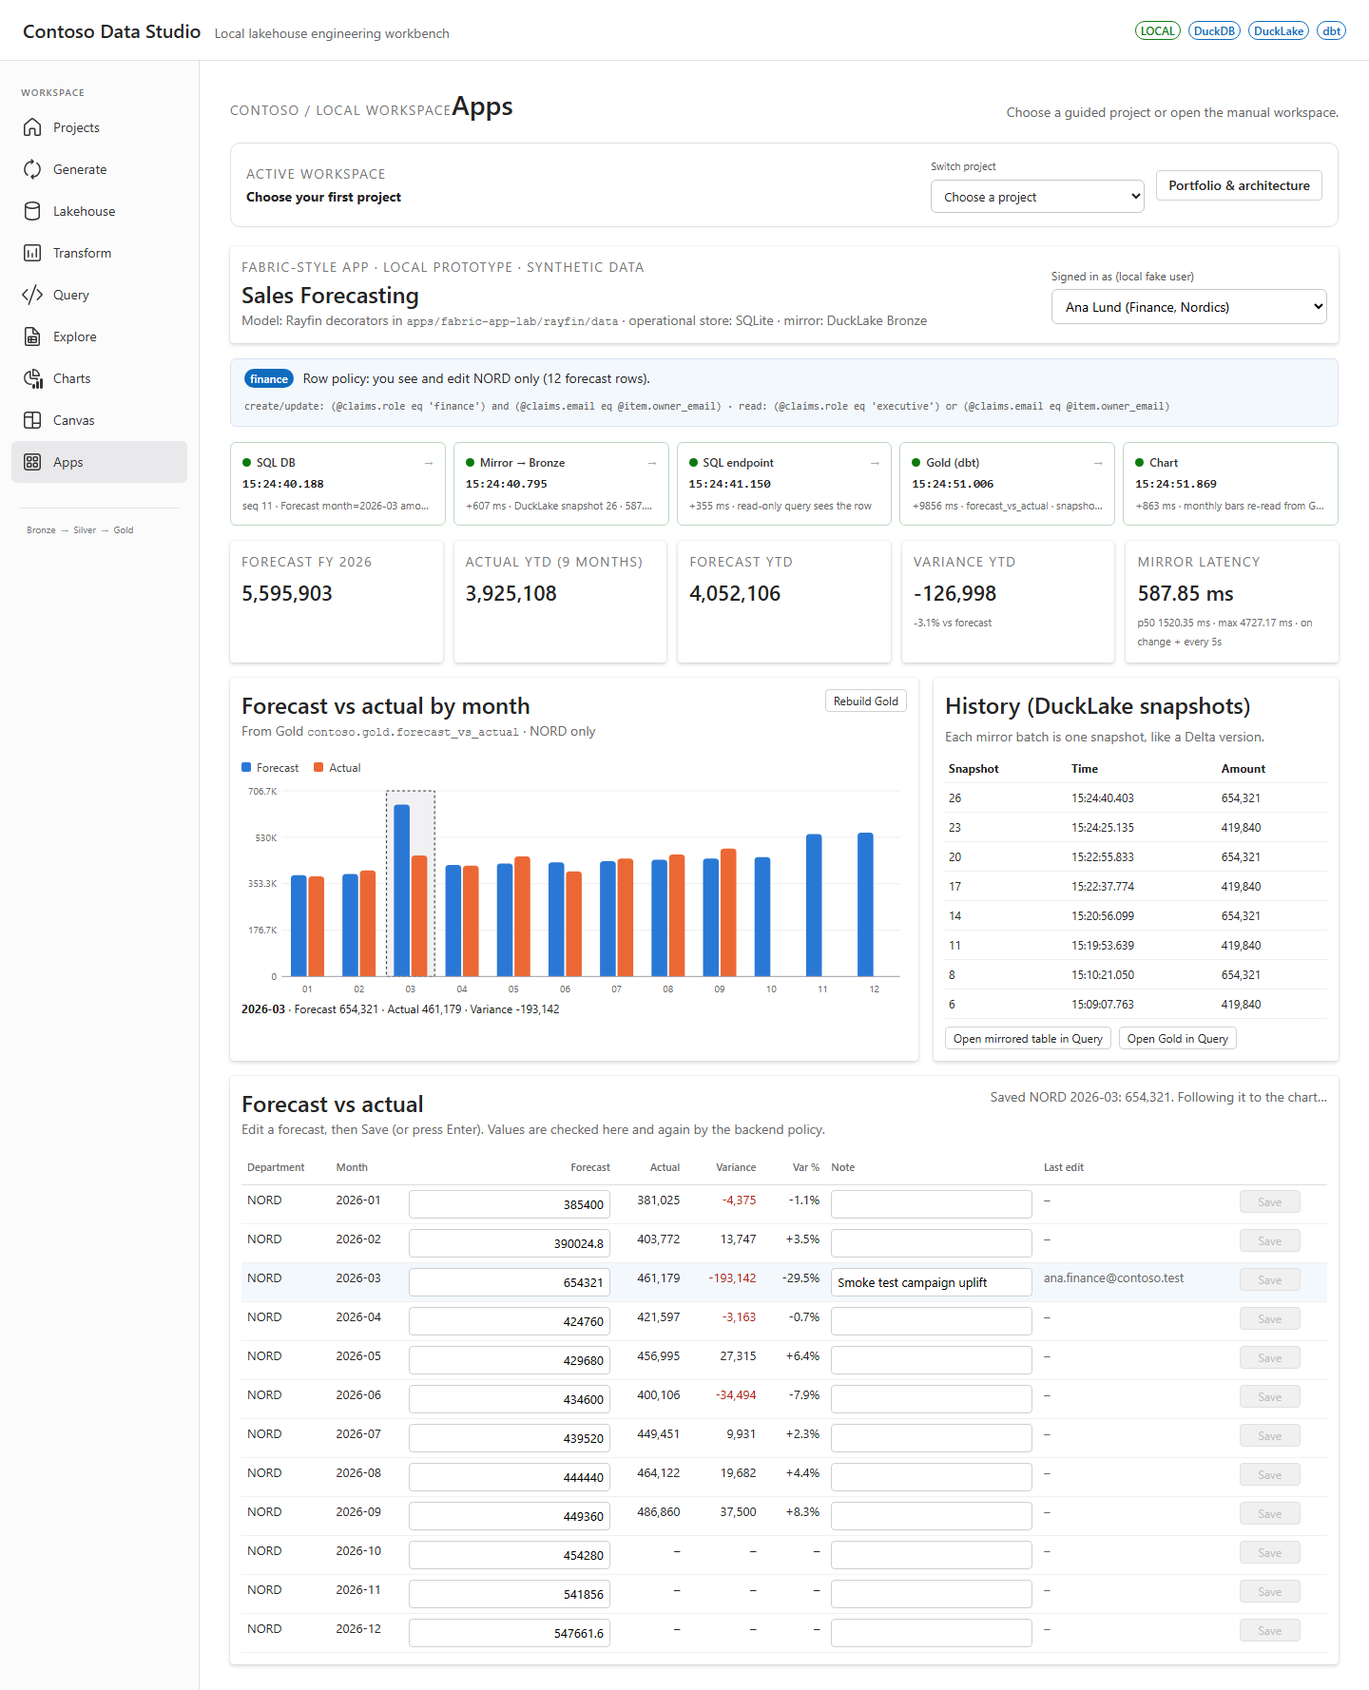
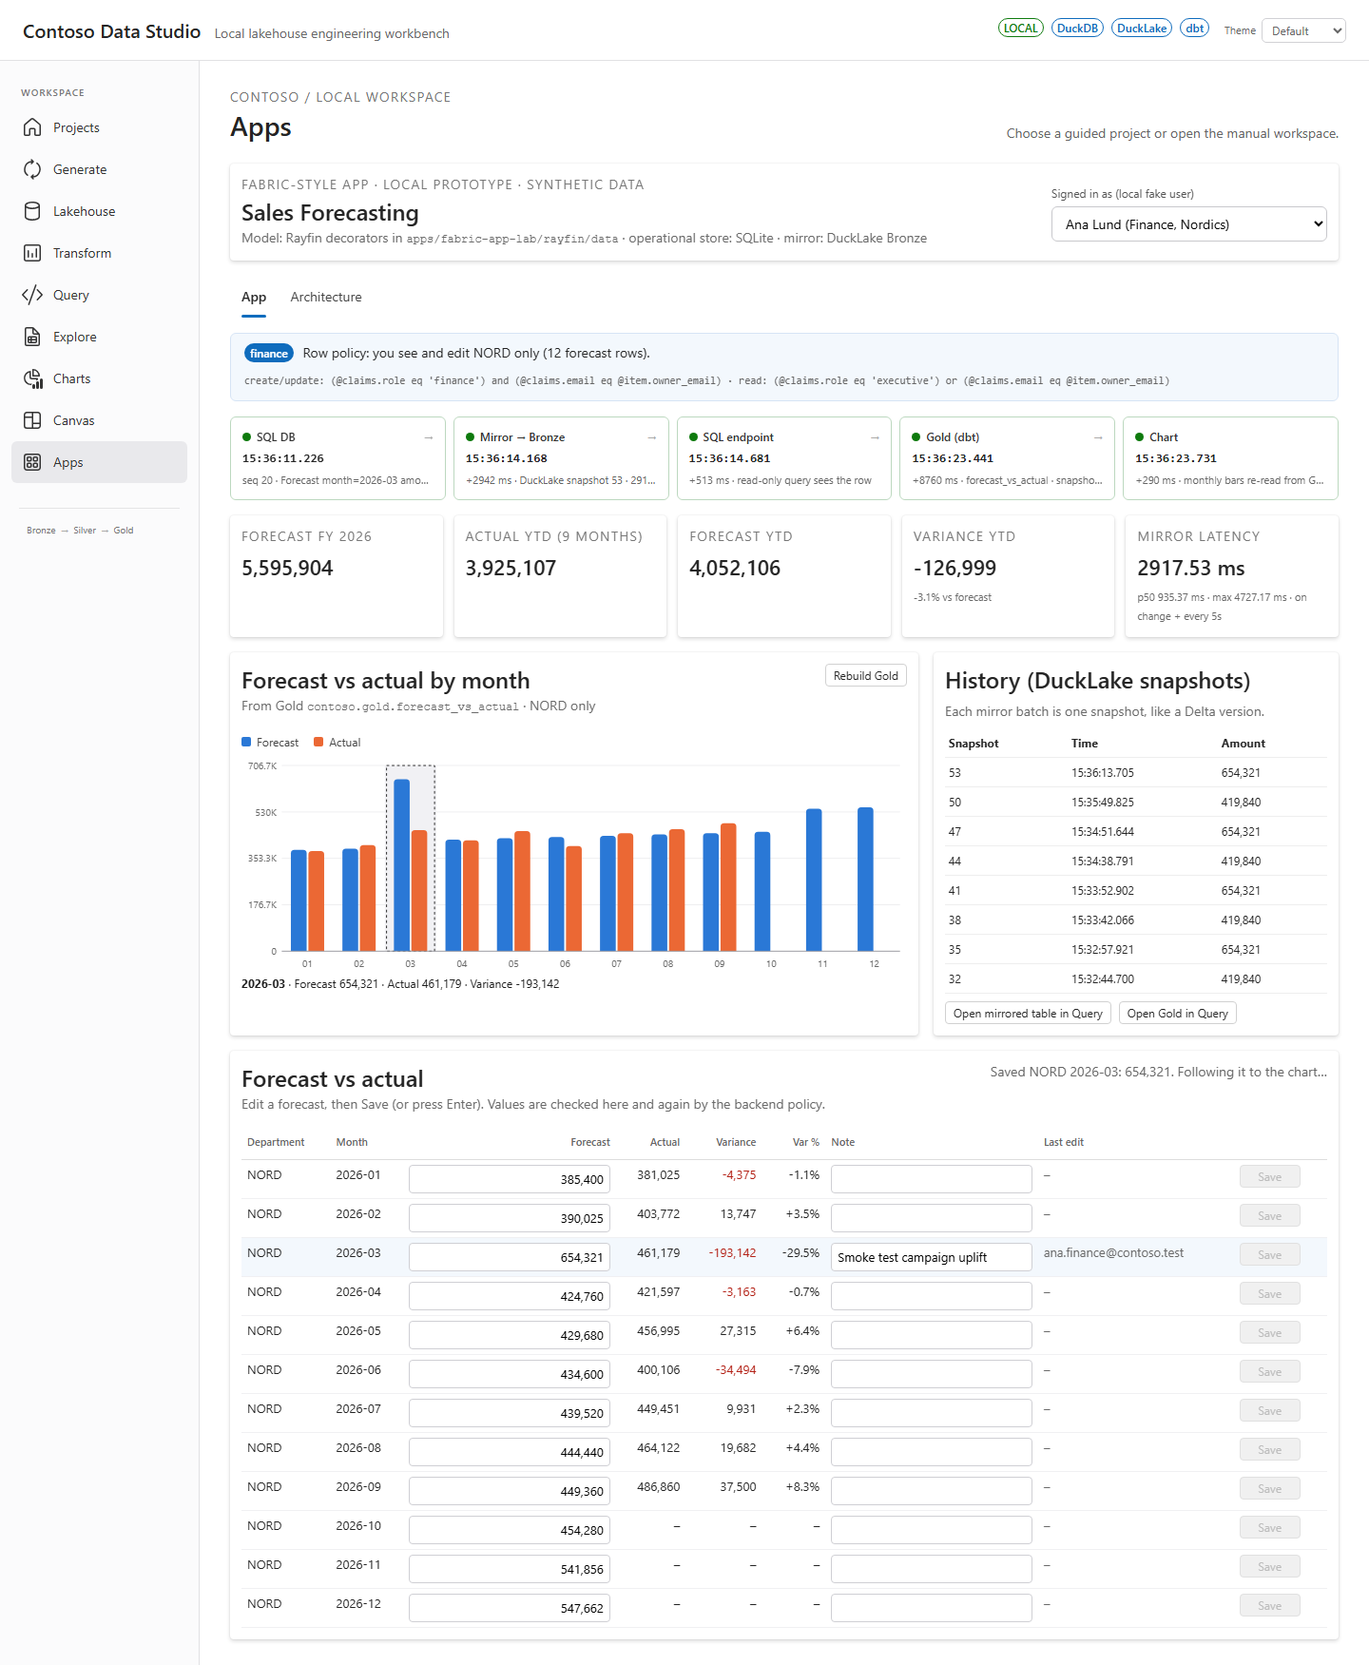
polish: Apps header, formatted forecasts, Architecture tab
- Fix breadcrumb glued to page title; hide the workspace bar on Apps
- Forecast inputs show integers with separators, raw value while editing; round seeded values
- Architecture tab: layer diagram generated from the Rayfin model and data path, auth on the side
- Smoke covers the new behaviour; captures updated (3)

diff --git a/apps/web/src/pages/AppsPage.tsx b/apps/web/src/pages/AppsPage.tsx
@@ -1,5 +1,8 @@
 import { useCallback, useEffect, useMemo, useRef, useState } from "react";
-import { Badge, Button, Card, Spinner, Text, Title3 } from "@fluentui/react-components";
+import { Badge, Button, Card, Spinner, Tab, TabList, Text, Title3 } from "@fluentui/react-components";
+
+import ArchitectureDiagram from "../fabricApps/ArchitectureDiagram";
+import { buildArchitecture, type ModelInfo } from "../fabricApps/architecture";
 
 import MonthlyBarChart from "../fabricApps/MonthlyBarChart";
 import {
@@ -21,7 +24,6 @@ import "../fabricApps/fabricApps.css";
 const USER_KEY = "contoso-fabric-app-user";
 
 type Draft = { amount: string; note: string; error?: string; saving?: boolean };
-type ModelInfo = { entities: Array<{ name: string; roles: Array<{ role: string; actions: string[]; policy: string | null }> }> };
 type Version = { snapshot_id: number; snapshot_time: string; amount: number | null; updated_by: string | null; commit_message: string | null };
 
 // Lab endpoints (mirror status, trace, Gold read) are local only; in Fabric these are platform views.
@@ -37,6 +39,12 @@ async function labPost<T>(path: string): Promise<T> {
   const body = await response.json();
   if (!response.ok) throw new Error(body.detail ?? `Request failed: ${response.status}`);
   return body as T;
+}
+
+/** Integers with thousands separators on display; the raw value is kept while editing. */
+function displayAmount(raw: string) {
+  const parsed = validateAmount(raw);
+  return parsed.ok ? formatMoney(parsed.value) : raw;
 }
 
 function storedUser() {
@@ -63,6 +71,8 @@ export default function AppsPage({ onOpenQuery }: { onOpenQuery: (sql: string) =
   const [message, setMessage] = useState("");
   const [loading, setLoading] = useState(true);
   const [rebuilding, setRebuilding] = useState(false);
+  const [view, setView] = useState<"app" | "architecture">("app");
+  const [focused, setFocused] = useState<string | null>(null);
   const traceTimer = useRef<number | null>(null);
 
   useEffect(() => {
@@ -154,6 +164,7 @@ export default function AppsPage({ onOpenQuery }: { onOpenQuery: (sql: string) =
   const bars = useMemo(() => monthlySeries(gold), [gold]);
   const stages = useMemo(() => dataPathStages(trace, chartAt), [trace, chartAt]);
   const canWrite = user?.role === "finance";
+  const architecture = useMemo(() => model ? buildArchitecture(model) : null, [model]);
   const forecastPolicies = model?.entities.find(e => e.name === "Forecast")?.roles ?? [];
 
   function draftFor(row: PlanRow): Draft {
@@ -222,6 +233,15 @@ export default function AppsPage({ onOpenQuery }: { onOpenQuery: (sql: string) =
       </label>
     </Card>
 
+    <TabList selectedValue={view} onTabSelect={(_, data) => setView(data.value as "app" | "architecture")} aria-label="Apps area">
+      <Tab value="app">App</Tab>
+      <Tab value="architecture">Architecture</Tab>
+    </TabList>
+
+    {view === "architecture" ? <Card className="faArchCard">
+      <div className="faCardHead"><div><Title3>Architecture</Title3><Text className="muted">Generated from the compiled Rayfin model (<code>rayfin/generated/model.json</code>) and the local data path. Each layer shows its local stand-in and the Fabric piece it replaces.</Text></div></div>
+      {architecture ? <ArchitectureDiagram architecture={architecture} /> : <Spinner label="Loading model…" />}
+    </Card> : <>
     {user && <div className={`faRls ${canWrite ? "write" : "read"}`} role="note">
       <Badge appearance="filled" color={canWrite ? "brand" : "informative"}>{user.role}</Badge>
       <span>{canWrite
@@ -285,7 +305,14 @@ export default function AppsPage({ onOpenQuery }: { onOpenQuery: (sql: string) =
               <td>{row.departmentCode}</td>
               <td>{row.month}</td>
               <td className="num">{canWrite
-                ? <input aria-label={`Forecast ${row.departmentCode} ${row.month}`} inputMode="decimal" value={draft.amount}
+                ? <input aria-label={`Forecast ${row.departmentCode} ${row.month}`} inputMode="decimal"
+                    value={focused === row.forecastId ? draft.amount : displayAmount(draft.amount)}
+                    onFocus={event => {
+                      // Swap to the raw value synchronously so select-all/typing apply to it, not to the formatted text.
+                      event.currentTarget.value = draft.amount;
+                      event.currentTarget.select();
+                      setFocused(row.forecastId);
+                    }} onBlur={() => setFocused(current => current === row.forecastId ? null : current)}
                     onChange={event => edit(row, { amount: event.target.value })}
                     onKeyDown={event => { if (event.key === "Enter") void save(row); }} aria-invalid={Boolean(draft.error)} />
                 : formatMoney(row.forecast)}</td>
@@ -308,5 +335,6 @@ export default function AppsPage({ onOpenQuery }: { onOpenQuery: (sql: string) =
       </table></div>}
     </Card>
     {status?.last_error && <div className="errorText" role="alert">Mirror error: {status.last_error}</div>}
+    </>}
   </div>;
 }

diff --git a/apps/web/src/fabricApps/ArchitectureDiagram.tsx b/apps/web/src/fabricApps/ArchitectureDiagram.tsx
@@ -1,0 +1,58 @@
+import type { Architecture } from "./architecture";
+
+const W = 1080;
+const LAYER_X = 16;
+const LAYER_W = 640;
+const ROW_H = 74;
+const GAP = 14;
+const AUTH_X = LAYER_X + LAYER_W + 48;
+const AUTH_W = W - AUTH_X - 16;
+
+function clip(text: string, max: number) {
+  return text.length > max ? `${text.slice(0, max - 1)}…` : text;
+}
+
+/** Static SVG of the app's layers, top (UI) to bottom (chart), with auth on the side. */
+export default function ArchitectureDiagram({ architecture }: { architecture: Architecture }) {
+  const { layers, auth } = architecture;
+  const height = 16 + layers.length * (ROW_H + GAP);
+  const y = (index: number) => 16 + index * (ROW_H + GAP);
+  // Auth guards the request path: UI, data client, model policies and SQL DB.
+  const authTop = y(0);
+  const authBottom = y(3) + ROW_H;
+
+  return <svg className="faArch" viewBox={`0 0 ${W} ${height}`} role="img" aria-label="Sales Forecasting app architecture">
+    <defs>
+      <marker id="faArrow" viewBox="0 0 10 10" refX="9" refY="5" markerWidth="7" markerHeight="7" orient="auto-start-reverse">
+        <path d="M0,0L10,5L0,10z" className="faArchArrowHead" />
+      </marker>
+    </defs>
+    {layers.map((layer, index) => <g key={layer.key} data-layer={layer.key}>
+      <rect x={LAYER_X} y={y(index)} width={LAYER_W} height={ROW_H} rx={6} className={`faArchBox ${layer.key}`} />
+      <text x={LAYER_X + 14} y={y(index) + 22} className="faArchTitle">{layer.title}</text>
+      <text x={LAYER_X + 14} y={y(index) + 40} className="faArchSub">local: {clip(layer.local, 40)}</text>
+      <text x={LAYER_X + 14} y={y(index) + 57} className="faArchSub">Fabric: {clip(layer.fabric, 40)}</text>
+      {layer.items.slice(0, layer.items.length > 4 ? 3 : 4).map((item, i) =>
+        <text key={item} x={LAYER_X + 330} y={y(index) + 20 + i * 15} className="faArchItem">{clip(item, 46)}</text>)}
+      {layer.items.length > 4 && <text x={LAYER_X + 330} y={y(index) + 20 + 3 * 15} className="faArchItem">+{layer.items.length - 3} more</text>}
+      {index < layers.length - 1 && <line x1={LAYER_X + 60} x2={LAYER_X + 60} y1={y(index) + ROW_H} y2={y(index + 1) - 2} className="faArchArrow" markerEnd="url(#faArrow)" />}
+    </g>)}
+    <g data-layer="auth">
+      <rect x={AUTH_X} y={authTop} width={AUTH_W} height={authBottom - authTop} rx={6} className="faArchBox auth" />
+      <text x={AUTH_X + 14} y={authTop + 22} className="faArchTitle">{auth.title}</text>
+      <text x={AUTH_X + 14} y={authTop + 40} className="faArchSub">local: {auth.local}</text>
+      <text x={AUTH_X + 14} y={authTop + 57} className="faArchSub">Fabric: {auth.fabric}</text>
+      {auth.items.slice(0, 5).map((item, i) => {
+        const [head, ...rest] = item.split(": ");
+        // Policies wrap at their top-level and/or, e.g. "(a) and" / "(b)".
+        const lines = rest.join(": ").split(/(?<=\)) (?=and |or )/);
+        return <g key={item}>
+          <text x={AUTH_X + 14} y={authTop + 86 + i * 48} className="faArchItem strong">{head}</text>
+          {lines.slice(0, 2).map((line, n) =>
+            <text key={n} x={AUTH_X + 14 + (n ? 12 : 0)} y={authTop + 100 + i * 48 + n * 14} className="faArchItem">{clip(line, 56)}</text>)}
+        </g>;
+      })}
+      {[0, 1, 2, 3].map(index => <line key={index} x1={AUTH_X} x2={LAYER_X + LAYER_W + 2} y1={y(index) + ROW_H / 2} y2={y(index) + ROW_H / 2} className="faArchArrow dashed" markerEnd="url(#faArrow)" />)}
+    </g>
+  </svg>;
+}

diff --git a/apps/web/src/fabricApps/architecture.ts b/apps/web/src/fabricApps/architecture.ts
@@ -1,0 +1,59 @@
+// Layer model of the Sales Forecasting app, derived from the compiled Rayfin model (/model).
+// Kept as plain data so a later package can render it in another visual style.
+
+export interface ModelEntity {
+  name: string;
+  table: string;
+  plural?: string;
+  columns: Array<{ name: string; db_type: string; nullable?: boolean; references: { entity: string; field: string } | null }>;
+  roles: Array<{ role: string; actions: string[]; policy: string | null }>;
+}
+
+export interface ModelInfo {
+  entities: ModelEntity[];
+  bronze_tables?: Record<string, string>;
+  gold_table?: string;
+}
+
+export interface Layer {
+  key: string;
+  title: string;
+  local: string;
+  fabric: string;
+  items: string[];
+}
+
+export interface Architecture {
+  layers: Layer[];
+  auth: { title: string; local: string; fabric: string; items: string[] };
+}
+
+export function buildArchitecture(model: ModelInfo): Architecture {
+  const entities = model.entities;
+  const relations = entities.flatMap(e =>
+    e.columns.filter(c => c.references).map(c => `${e.name}.${c.name} → ${c.references!.entity}.${c.references!.field}`),
+  );
+  const policies = entities.flatMap(e =>
+    e.roles.map(r => `${e.name} ${r.actions.join("/")}: ${r.policy ?? "any signed-in user"}`),
+  );
+  const bronze = Object.values(model.bronze_tables ?? {});
+  return {
+    layers: [
+      { key: "ui", title: "UI", local: "Apps page (React + Fluent)", fabric: "Fabric static hosting", items: ["editable forecast table", "KPI cards", "monthly bar chart"] },
+      { key: "service", title: "Data client", local: "LocalRayfinClient → /api/fabric-apps", fabric: "RayfinClient → Data API Builder (GraphQL)", items: entities.map(e => `client.data.${e.name} · client.data.${e.plural ?? e.table.toLowerCase()}`) },
+      { key: "model", title: "Rayfin model", local: "rayfin/data/*.ts (@microsoft/rayfin-core)", fabric: "same files", items: [entities.map(e => `${e.name} (${e.columns.length})`).join(" · "), ...relations] },
+      { key: "sqldb", title: "SQL DB (operational)", local: "SQLite", fabric: "Fabric SQL database", items: entities.map(e => `${e.table}: ${e.columns.map(c => c.name).join(", ")}`) },
+      { key: "mirror", title: "Mirror", local: "worker: on change + timer", fabric: "SQL DB mirroring to OneLake", items: ["one DuckLake snapshot per batch", "latency stamped per write"] },
+      { key: "lake", title: "Lake (Bronze)", local: "DuckLake", fabric: "OneLake Delta tables", items: bronze.length ? bronze : entities.map(e => e.table) },
+      { key: "endpoint", title: "SQL endpoint", local: "read-only Query workbench", fabric: "SQL analytics endpoint", items: ["SELECT only, time travel AT (VERSION => n)"] },
+      { key: "gold", title: "Gold", local: "dbt build", fabric: "dbt / notebooks / warehouse", items: [model.gold_table ?? "contoso.gold.forecast_vs_actual"] },
+      { key: "chart", title: "Chart", local: "Gold read, scoped by department", fabric: "Power BI / semantic model with RLS", items: ["forecast vs actual by month"] },
+    ],
+    auth: {
+      title: "Auth & policies",
+      local: "fake users, X-Local-User header",
+      fabric: "Entra ID; claims sub, email, role",
+      items: policies,
+    },
+  };
+}

diff --git a/apps/web/src/App.tsx b/apps/web/src/App.tsx
@@ -168,7 +168,7 @@ export default function App() {
           </div>
           <Text className="statusText">{message}</Text>
         </div>
-        <div className="workspaceProjectBar">
+        {page!=="Apps" && <div className="workspaceProjectBar">
           <div><Text className="eyebrow">ACTIVE WORKSPACE</Text><b>{workspaceLoading ? "Loading active workspace…" : workspace?.active_scenario ? `${groupName(groupFor(workspace.active_scenario))} / ${PROJECTS.find(p=>p.scenario===workspace.active_scenario)?.title ?? workspace.active_scenario}` : "Choose your first project"}</b></div>
           {workspace?.active_scenario && !workspaceLoading && <Badge appearance="outline" color={opening ? "informative" : workspace.ready ? "success" : "warning"}>{opening ? "Opening…" : workspace.ready ? "Ready" : "Needs preparation"}</Badge>}
           <label>Switch project <select aria-label="Switch project" disabled={Boolean(opening)||workspaceLoading} value={workspace?.active_scenario ?? ""}
@@ -177,7 +177,7 @@ export default function App() {
             {(["foil","samples"] as const).map(group=><optgroup label={groupName(group)} key={group}>{PROJECTS.filter(p=>groupFor(p.scenario)===group).map(project=><option value={project.scenario} key={project.scenario}>{project.title}</option>)}</optgroup>)}
           </select></label>
           <Button disabled={Boolean(opening)} onClick={()=>setPage("Projects")}>Portfolio & architecture</Button>
-        </div>
+        </div>}
         {projectError && <div className="errorText" role="alert">{projectError} <Button size="small" onClick={()=>setPage("Transform")}>Inspect Transform</Button></div>}
         {opening ? <div className="projectOpening" role="status" aria-live="polite"><Spinner/><Title2>Opening {PROJECTS.find(p=>p.scenario===opening)?.title}</Title2><Text>Activating project data, rebuilding analytical layers and checking quality.</Text><Text className="muted">Your dashboard will open automatically when everything is ready.</Text></div>
           : <div key={`${refreshToken}:${page}`} className="pageTransition" data-route={page}><Suspense fallback={<PageSkeleton label="Loading project portfolio…"/>}>{renderPage()}<RouteReady route={page}/></Suspense></div>}

diff --git a/apps/web/src/fabricApps/fabricApps.test.ts b/apps/web/src/fabricApps/fabricApps.test.ts
@@ -1,6 +1,7 @@
 import { describe, expect, it, vi } from "vitest";
 
 import { buildPlanRows, computeKpis, dataPathStages, monthlySeries, validateAmount, validateNote } from "./forecastLogic";
+import { buildArchitecture } from "./architecture";
 import { LocalRayfinClient, LocalRayfinError } from "./localRayfinClient";
 import type { Actual, Department, Forecast, LocalUser, Trace } from "./types";
 
@@ -86,6 +87,23 @@ describe("data path strip", () => {
     const stages = dataPathStages({ change, mirror: { seq: 7, mirrored_at: change.committed_at, latency_ms: 1, snapshot_id: 1, endpoint_at: change.committed_at, gold_at: change.committed_at, gold_snapshot_id: null, gold_ok: 0 } }, null);
     expect(stages[3].state).toBe("failed");
     expect(stages[4].state).toBe("pending");
+  });
+});
+
+describe("architecture", () => {
+  it("derives the layers, relations and policies from the model", () => {
+    const arch = buildArchitecture({
+      entities: [
+        { name: "Department", table: "Departments", plural: "departments", columns: [{ name: "id", db_type: "UNIQUEIDENTIFIER", references: null }], roles: [{ role: "authenticated", actions: ["read"], policy: null }] },
+        { name: "Forecast", table: "Forecasts", plural: "forecasts", columns: [{ name: "id", db_type: "UNIQUEIDENTIFIER", references: null }, { name: "department_id", db_type: "UNIQUEIDENTIFIER", references: { entity: "Department", field: "id" } }], roles: [{ role: "authenticated", actions: ["create", "update"], policy: "(@claims.role eq 'finance')" }] },
+      ],
+      bronze_tables: { Forecast: "contoso.bronze.sfapp_forecasts" },
+    });
+    expect(arch.layers.map(l => l.key)).toEqual(["ui", "service", "model", "sqldb", "mirror", "lake", "endpoint", "gold", "chart"]);
+    expect(arch.layers[2].items).toContain("Forecast.department_id → Department.id");
+    expect(arch.layers[3].items).toContain("Forecasts: id, department_id");
+    expect(arch.layers[5].items).toEqual(["contoso.bronze.sfapp_forecasts"]);
+    expect(arch.auth.items).toEqual(["Department read: any signed-in user", "Forecast create/update: (@claims.role eq 'finance')"]);
   });
 });
 

diff --git a/apps/web/src/fabricApps/fabricApps.css b/apps/web/src/fabricApps/fabricApps.css
@@ -54,4 +54,18 @@
 .faTable input{width:100%;min-width:90px;padding:4px 6px;border:1px solid #cfcfd4;border-radius:4px;text-align:inherit;font-variant-numeric:tabular-nums}
 .faTable input[aria-invalid="true"]{border-color:#c42b1c}
 .faTable tr.edited td{background:#f3f8fd}
+.faArchCard{display:grid;gap:12px}
+.faArch{width:100%;height:auto;display:block}
+.faArchBox{fill:#fff;stroke:#c9c9ce;stroke-width:1}
+.faArchBox.model{fill:#f3f8fd;stroke:#2a78d6}
+.faArchBox.sqldb,.faArchBox.lake{fill:#f7f7f8}
+.faArchBox.gold{fill:#fff8e6;stroke:#c98500}
+.faArchBox.auth{fill:#fbfbfc;stroke:#6a6a6a;stroke-dasharray:4 3}
+.faArchTitle{font-size:14px;font-weight:600;fill:#1f1f1f}
+.faArchSub{font-size:11px;fill:#555}
+.faArchItem{font-size:11px;fill:#444;font-family:Consolas,"Cascadia Code",monospace}
+.faArchItem.strong{fill:#1f1f1f;font-weight:600}
+.faArchArrow{stroke:#9a9aa0;stroke-width:1.5}
+.faArchArrow.dashed{stroke-dasharray:4 3}
+.faArchArrowHead{fill:#9a9aa0}
 .faError{color:#b42318;font-size:11px;margin-top:3px;max-width:220px}

diff --git a/apps/web/src/styles.css b/apps/web/src/styles.css
@@ -32,6 +32,7 @@ aside>button:hover,aside>button.active{background:#e9e9ec}
 .pipelineMini i{font-style:normal;color:#aaa}
 main{padding:28px 32px;min-width:0}
 .pageTitle{display:flex;justify-content:space-between;align-items:end;margin-bottom:22px}
+.pageTitle>div:first-child{display:grid;gap:2px}
 .eyebrow{display:block;color:#777;letter-spacing:.09em;font-size:10px}
 .statusText{color:#666;max-width:480px;text-align:right}
 .grid{display:grid;grid-template-columns:1.25fr .8fr;gap:18px}

diff --git a/apps/api/app/services/fabric_apps/store.py b/apps/api/app/services/fabric_apps/store.py
@@ -145,14 +145,14 @@ class OperationalStore:
                 )
                 for index, month in enumerate(MONTHS):
                     season = 1 + 0.18 * (1 if index in (10, 11) else 0) - 0.06 * (1 if index in (0, 1) else 0)
-                    planned = round(base * season * (1 + 0.012 * index), 2)
+                    planned = float(round(base * season * (1 + 0.012 * index)))
                     con.execute(
                         f'INSERT INTO "{forecast.table}" (id, department_id, month, amount, note, owner_email, updated_by, updated_at) '
                         "VALUES (?,?,?,?,?,?,?,?)",
                         (stable_id("forecast", code, month), dept_id, month, planned, None, owner, "seed", "2026-01-01T00:00:00.000+00:00"),
                     )
                     if month in ACTUAL_MONTHS:
-                        booked = round(planned * rng.uniform(0.86, 1.12), 2)
+                        booked = float(round(planned * rng.uniform(0.86, 1.12)))
                         con.execute(
                             f'INSERT INTO "{actual.table}" (id, department_id, month, amount, owner_email) VALUES (?,?,?,?,?)',
                             (stable_id("actual", code, month), dept_id, month, booked, owner),

diff --git a/docs/fabric-apps/README.md b/docs/fabric-apps/README.md
@@ -79,3 +79,7 @@ for Fabric Apps and a capacity workspace.
 
 ![Finance writeback travelling to the Gold chart](captures/fabric-app-01-finance-writeback.png)
 ![Executive read-only view, all departments](captures/fabric-app-02-executive-readonly.png)
+![Architecture tab, generated from the Rayfin model](captures/fabric-app-03-architecture.png)
+
+The Architecture tab (`src/fabricApps/architecture.ts` → `ArchitectureDiagram.tsx`) derives the layers,
+relations and policies from `/model`; the layer list is plain data so another renderer can restyle it.
